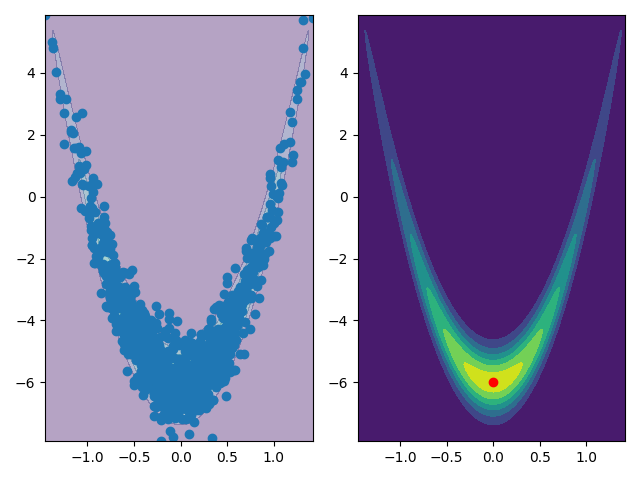
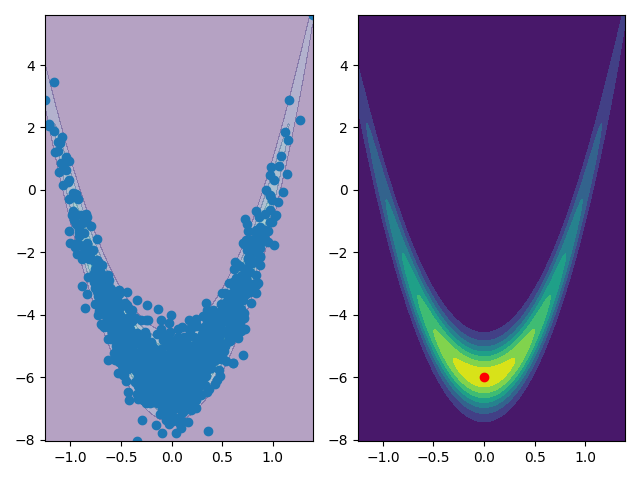
update

diff --git a/rala/laplace.py b/rala/laplace.py
@@ -18,7 +18,6 @@ class LaplaceMethod(Enum):
     RIEMANN = "riemann"
     MONGE = "monge"
     FISHER = "fisher"
-    RANDOM_WALK = "random-walk"
     HMC = "hmc"
 
 
@@ -162,6 +161,8 @@ def laplace_approximation(
     num_samples: int,
     method: LaplaceMethod = LaplaceMethod.STANDARD,
     metric_fn: callable = None,
+    rwmc_refine: bool = False,
+    hmc_refine: bool = False,
 ) -> tuple[nnx.State, nnx.GraphDef, jax.Array]:
     state = nnx.state(model)
     graphdef = nnx.graphdef(model)
@@ -202,23 +203,25 @@ def laplace_approximation(
         case LaplaceMethod.FISHER:
             assert metric_fn is not None, "`metric_fn` should be provided when `FISHER` is used"
             samples = fexpmap(samples, theta_map, metric_fn, dim)
-        case LaplaceMethod.RANDOM_WALK:
-            config = RandomWalkConfig(key=key, iterations=500, tuning_steps=10)
-            samples = random_walk(neg_log_p_flat, samples, config)
-            samples = samples[-1]
-        case LaplaceMethod.HMC:
-            config = HMCConfig(
-                initial_step_size=0.01,
-                max_path_len=1,
-                iterations=500,
-                initial_precm=jnp.cov(samples, rowvar=False),
-                key=key,
-                fast_tuning_steps=0,
-                slow_tuning_phases=0,
-                slow_tuning_initial_length=0,
-            )
-            _, samples = hmc(neg_log_p_flat, samples, config)
-            samples = samples[-1]
+
+    if rwmc_refine:
+        config = RandomWalkConfig(key=key, iterations=100, tuning_steps=10)
+        samples = random_walk(neg_log_p_flat, samples, config)
+        samples = samples[-1]
+
+    if hmc_refine:
+        config = HMCConfig(
+            initial_step_size=0.01,
+            max_path_len=1,
+            iterations=50,
+            initial_precm=jnp.cov(samples, rowvar=False),
+            key=key,
+            fast_tuning_steps=0,
+            slow_tuning_phases=0,
+            slow_tuning_initial_length=0,
+        )
+        _, samples = hmc(neg_log_p_flat, samples, config)
+        samples = samples[-1]
 
     # Apply jax.vmap to unravel so we can unravel multiple samples at the same time
     unravel = jax.vmap(unravel)

diff --git a/examples/sampling.py b/examples/sampling.py
@@ -83,6 +83,8 @@ def main(
     num_samples: int = 1000,
     method: LaplaceMethod = LaplaceMethod.RIEMANN,
     use_hausdorff: bool = False,
+    rwmc: bool = False,
+    hmc: bool = False,
 ):
     logp_fn, dim = dist.get()
 
@@ -109,6 +111,8 @@ def main(
         key=key,
         num_samples=num_samples,
         method=method,
+        rwmc_refine=rwmc,
+        hmc_refine=hmc,
     )
     samples = samples["theta"].get_value()
 
